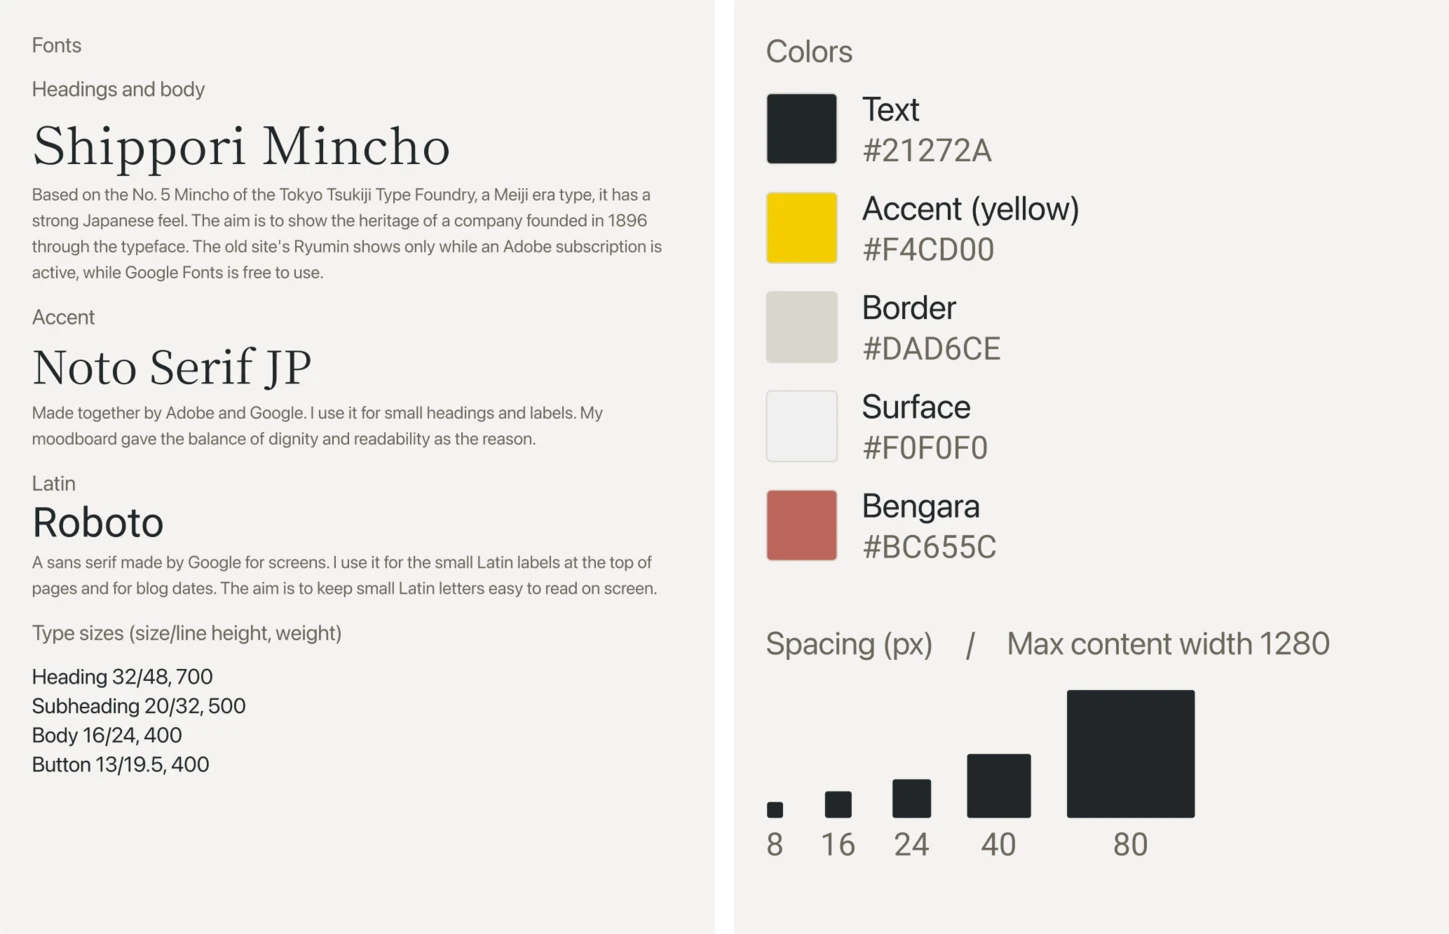
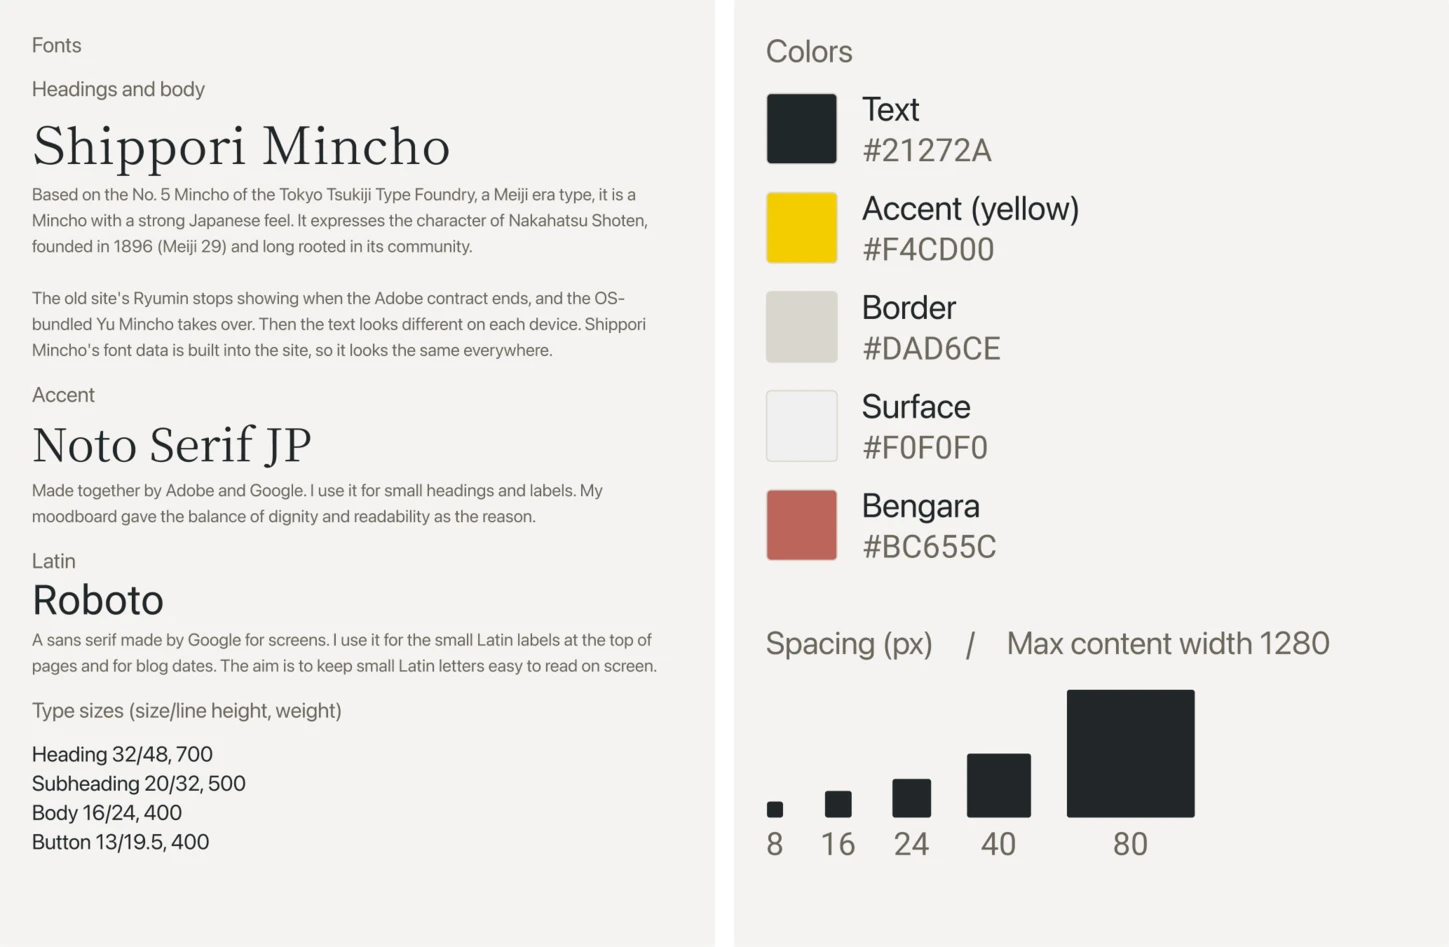
feat(nakahatsu-sy): Shippori note explains the OS-font difference in plain words, A-1/A-2 figures redrawn in Figma

diff --git a/app/[locale]/work/nakahatsu-sy/NakahatsuSy.tsx b/app/[locale]/work/nakahatsu-sy/NakahatsuSy.tsx
@@ -469,7 +469,7 @@ const NakahatsuSy: React.FC<{ launched: boolean }> = () => {
               {/* 色の図のあとに、ストアのテーマの文字・サイズ・色・余白の図（デザインシステム）。Figma の Step/5 の下と同じ */}
               {s.fig === 'palette' && (
                 <div className="w-full overflow-hidden rounded-media">
-                  <Image src={`/work/nakahatsu/design-system-${language === 'jp' ? 'jp' : 'en'}.webp`} alt={t('dsAlt')} width={language === 'jp' ? 1378 : 1449} height={language === 'jp' ? 894 : 934}className="h-auto w-full" />
+                  <Image src={`/work/nakahatsu/design-system-${language === 'jp' ? 'jp' : 'en'}.webp`} alt={t('dsAlt')} width={language === 'jp' ? 1378 : 1449} height={language === 'jp' ? 901 : 947}className="h-auto w-full" />
                 </div>
               )}
               {/* 3つの言語: ヒーローの図のあとに、スマートフォン幅の商品ページ（文字の部分）を並べた図を足す。住所・フッターは写さない */}
